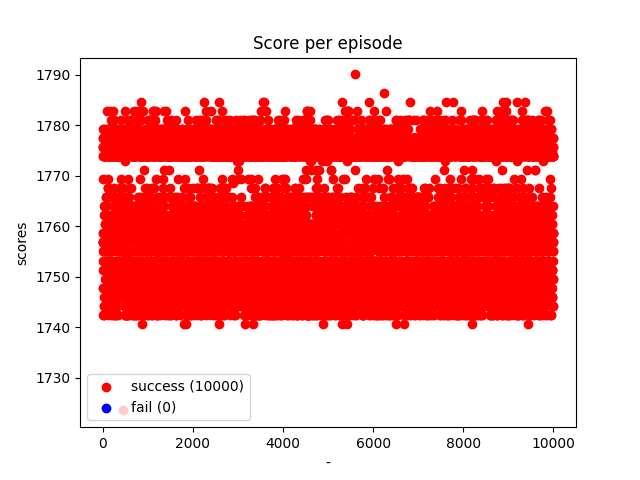
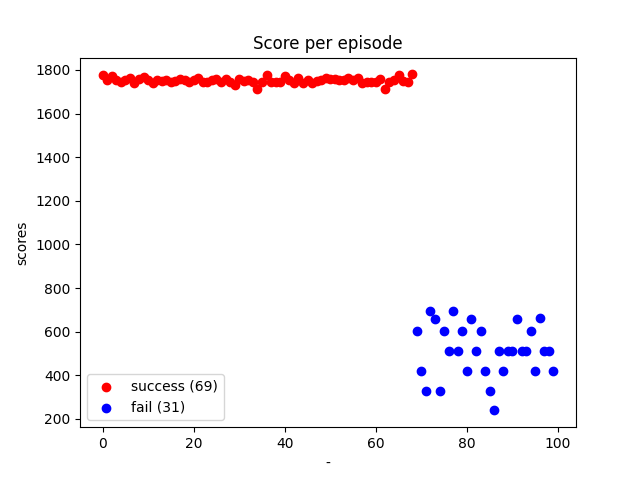
TD(lambda) with eligibility

diff --git a/Eligibility.py b/Eligibility.py
@@ -1,0 +1,22 @@
+class Eligibility:
+    def __init__(self, decay):
+        self.eligibility_dict = {}
+        self.skipped_updates = {}
+        self.decay = decay
+    
+    def increase_skipped_updates(self):
+        for key in self.skipped_updates.keys():
+            self.skipped_updates[key] += 1
+    
+    def get_eligibility(self, key):
+        if not key in self.eligibility_dict.keys():
+            self.eligibility_dict[key] = 1
+            self.skipped_updates[key] = 0
+            return 1
+        
+        if self.skipped_updates[key] > 0:
+            self.eligibility_dict[key] *= self.decay ** self.skipped_updates[key]
+            self.eligibility_dict[key] += 1
+            self.skipped_updates[key] = 0
+
+        return self.eligibility_dict[key]

diff --git a/ValueFunctionLambda.py b/ValueFunctionLambda.py
@@ -1,0 +1,21 @@
+import warnings
+
+from Eligibility import Eligibility
+from ValueFunction import ValueFunction
+
+class ValueFunctionLambda(ValueFunction):
+    def __init__(self, step_size_lambda, reward_discount = 1, eligibility_decay = 0.5):
+        if eligibility_decay == 0:
+            warnings.warn('If decay is zero it would be better to use ValueFunction class instead.', UserWarning)
+        super().__init__(step_size_lambda, reward_discount)
+        self.eligibility = Eligibility(decay=eligibility_decay * reward_discount)
+
+    def update(self, old_state_key, new_state_key, reward):
+        v1 = self.get(old_state_key)
+        v2 = self.get(new_state_key)
+
+        self.eligibility.increase_skipped_updates()
+        e = self.eligibility.get_eligibility(old_state_key)
+        
+        self.value_dict[old_state_key] = v1 + self.step_size_lambda(self.t) * e * (reward + self.reward_discount * v2 - v1)
+        self.t += 1

diff --git a/ValueFunction.py b/ValueFunction.py
@@ -1,15 +1,16 @@
 class ValueFunction:
-    def __init__(self, step_size_lambda, reward_discount = 1, default_value = 0):
+    def __init__(self, step_size_lambda, reward_discount = 1):
         self.t = 0
-        self.sparse_dict = {}
+        self.value_dict = {}
         self.step_size_lambda = step_size_lambda
         self.reward_discount = reward_discount
-        self.default_value = default_value
 
     def update(self, old_state_key, new_state_key, reward):
         v1 = self.get(old_state_key)
         v2 = self.get(new_state_key)
-        self.sparse_dict[old_state_key] = v1 + self.step_size_lambda(self.t) * (reward + self.reward_discount * v2 - v1)
+        
+        self.value_dict[old_state_key] = v1 + self.step_size_lambda(self.t) * (reward + self.reward_discount * v2 - v1)
+        self.t += 1
     
     def get(self, key):
-        return self.sparse_dict.get(key, self.default_value)
+        return self.value_dict.get(key, 0)

diff --git a/main.py b/main.py
@@ -4,6 +4,7 @@ import numpy as np
 import random
 from Grid import Grid
 from ValueFunction import ValueFunction
+from ValueFunctionLambda import ValueFunctionLambda
 import policies
 from Robot import Robot
 from config import *
@@ -67,9 +68,9 @@ def experiment(seed, vf, title, nwaypoints = N_WAYPOINTS, charge_station_positio
             break
 
         if drawing:
+            robot.erase(screen)
             grid.draw_charge_station(screen)
             grid.draw_waypoints(screen)
-            robot.erase(screen)
 
         direction = policies.pedant_policy(grid, robot)
         direction = choose_direction(direction, robot.position)
@@ -108,7 +109,7 @@ def plot_hist(values, bins=20):
     plt.title("Histogram")
     plt.savefig(f'hist{bins}.png')
 
-vf = ValueFunction(step_size_lambda=STEP_SIZE_RULE, reward_discount=REWARD_DISCOUNT)
+vf = ValueFunctionLambda(step_size_lambda=STEP_SIZE_RULE, reward_discount=REWARD_DISCOUNT)
 
 x_vals = []
 y_vals = []
@@ -159,5 +160,5 @@ def cycle_for(times):
             fail_scores.append(score)
         it += 1
 
-cycle_for(10_000)
+cycle_for(100)
 plot_scores(success_scores, fail_scores)